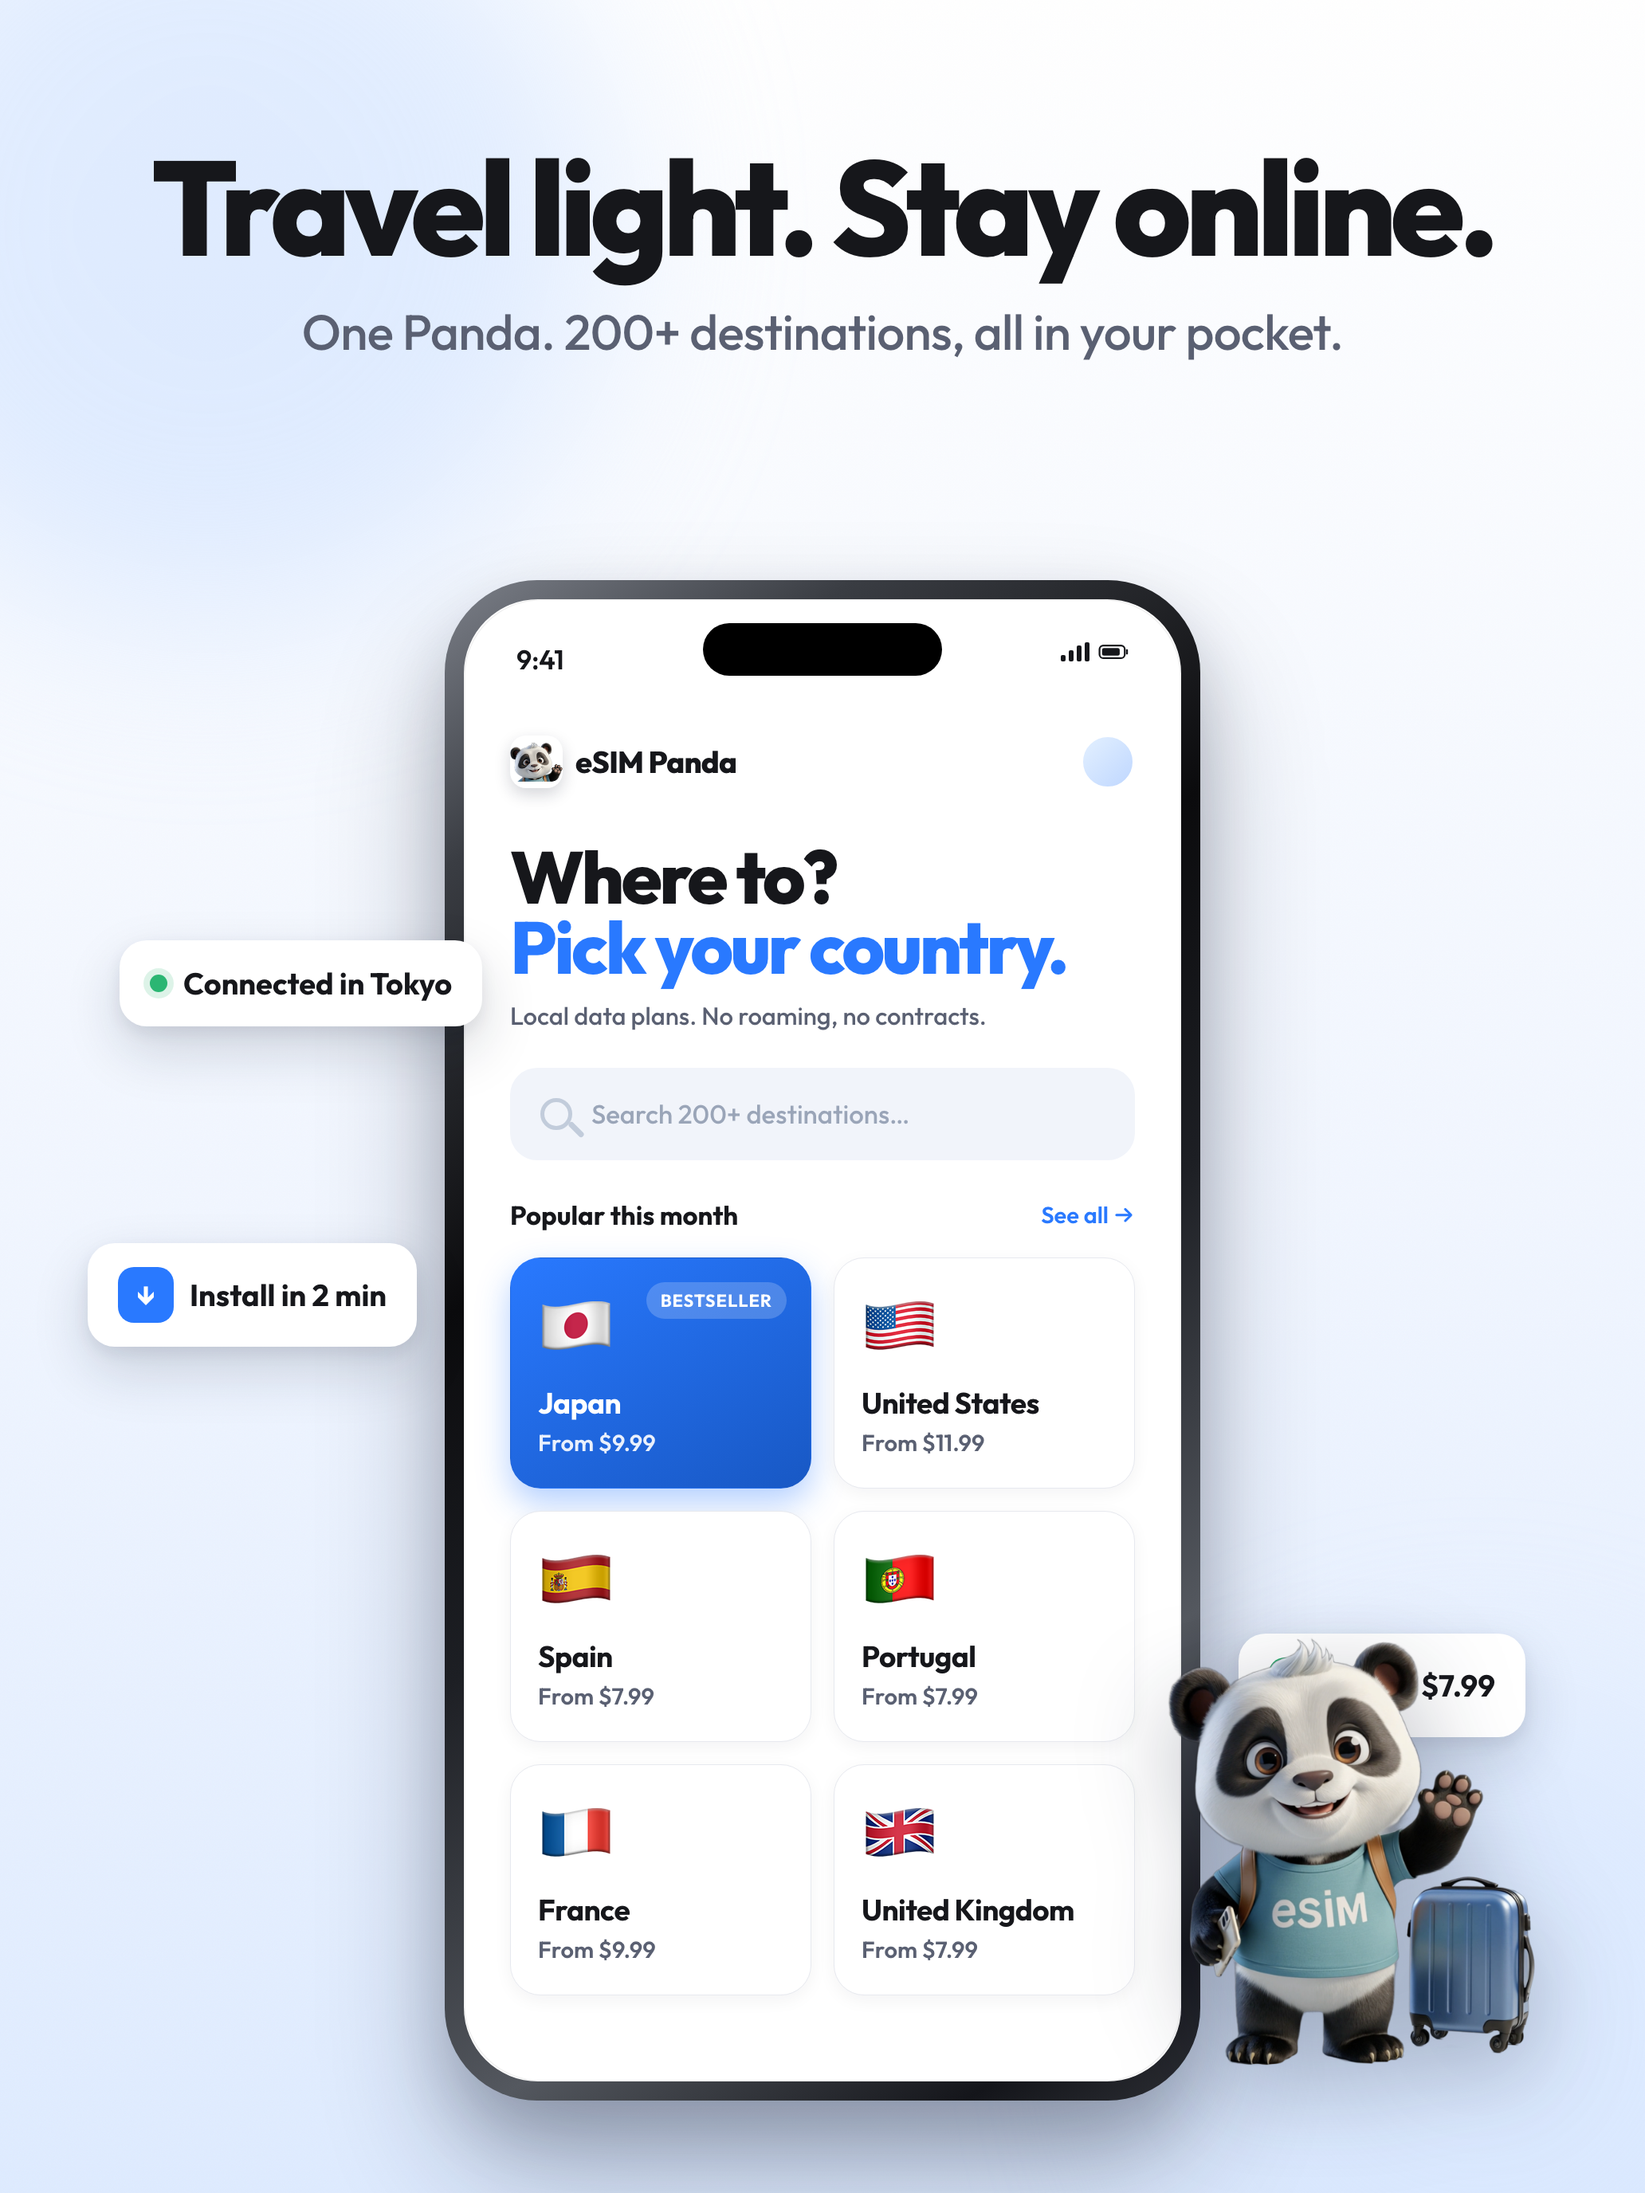
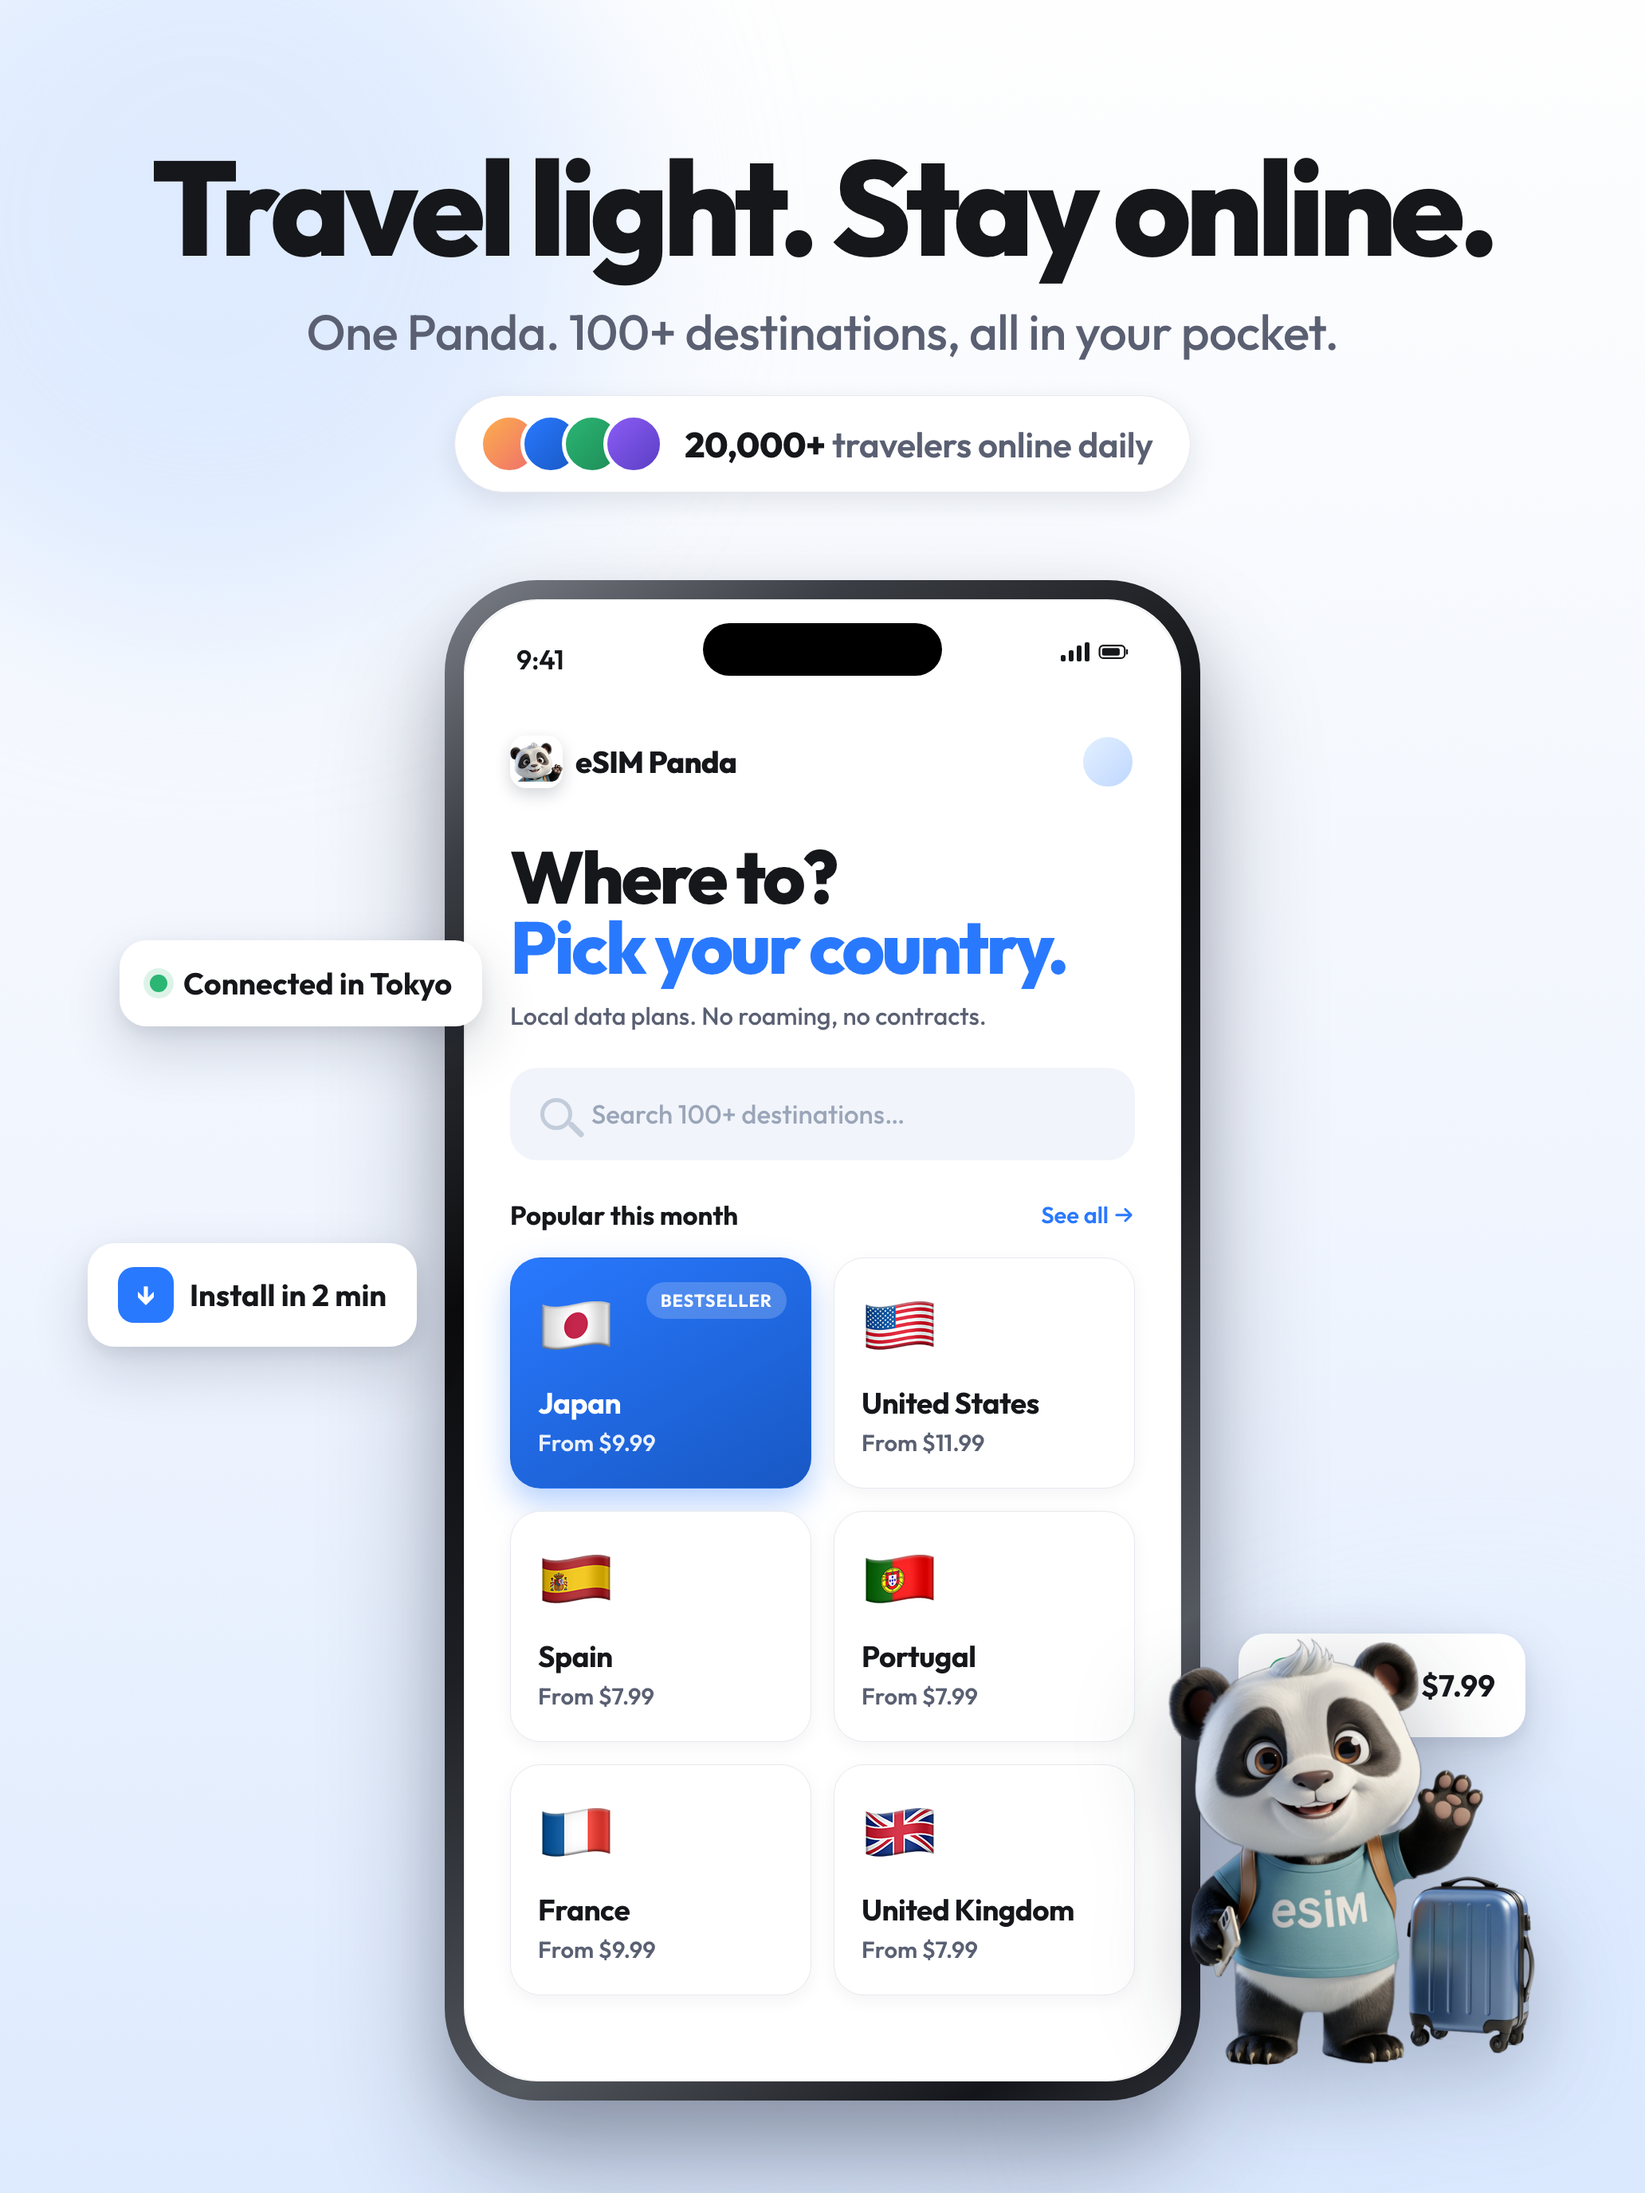
docs(app-store): correct destination count to 100+ and add social proof
- Fixed "200+ destinations" → "100+" across hero + lifestyle screenshots
  (iPhone 6.9/6.5 + iPad). The catalog has 218 destination pages but not
  all carry purchasable plans, so 100+ is the honest, defensible claim.
- Added a "20,000+ travelers online daily" social-proof pill below the
  subtitle on the hero (slot-1 + ipad-1), framed about travelers (not
  app users, since the app is new) to stay defensible under review.

Changed region(s): [[0.186, 0.125, 0.8062, 0.2188], [0.4031, 0.5, 0.5271, 0.5312]]

diff --git a/.planning/app-store/templates/ipad-1.html b/.planning/app-store/templates/ipad-1.html
@@ -15,6 +15,16 @@
   .caption { position: absolute; top: 180px; left: 160px; right: 160px; text-align: center; z-index: 4; }
   .caption h1 { font-size: 168px; line-height: 0.95; letter-spacing: -0.045em; font-weight: 800; color: var(--c-ink); }
   .caption p { margin-top: 38px; font-size: 62px; font-weight: 500; color: var(--c-ink-soft); letter-spacing: -0.012em; }
+  .socialproof { margin-top: 42px; display: inline-flex; align-items: center; gap: 26px; background: #fff; border: 1px solid var(--c-line); border-radius: 999px; padding: 22px 46px 22px 30px; box-shadow: 0 12px 34px rgba(20,28,48,0.10); }
+  .socialproof .avatars { display: flex; }
+  .socialproof .avatars i { width: 76px; height: 76px; border-radius: 50%; border: 5px solid #fff; margin-left: -24px; }
+  .socialproof .avatars i:first-child { margin-left: 0; }
+  .socialproof .avatars i:nth-child(1){ background: linear-gradient(135deg,#FCAE4D,#EF6F6C); }
+  .socialproof .avatars i:nth-child(2){ background: linear-gradient(135deg,#2979FF,#1858C4); }
+  .socialproof .avatars i:nth-child(3){ background: linear-gradient(135deg,#2BB673,#1E8C57); }
+  .socialproof .avatars i:nth-child(4){ background: linear-gradient(135deg,#8B5CF6,#5B3FC4); }
+  .socialproof .sp-text { font-size: 44px; font-weight: 600; color: var(--c-ink-soft); letter-spacing: -0.01em; }
+  .socialproof .sp-text b { color: var(--c-ink); font-weight: 800; }
 
   /* iPhone mockup centered on the iPad canvas */
   .phone {
@@ -68,7 +78,8 @@
 
   <div class="caption">
     <h1>Travel light. Stay online.</h1>
-    <p>One Panda. 200+ destinations, all in your pocket.</p>
+    <p>One Panda. 100+ destinations, all in your pocket.</p>
+    <div class="socialproof"><span class="avatars"><i></i><i></i><i></i><i></i></span><span class="sp-text"><b>20,000+</b> travelers online daily</span></div>
   </div>
 
   <div class="float pill-1"><span class="led"></span><span>Connected in Tokyo</span></div>
@@ -91,7 +102,7 @@
         </div>
         <h2>Where to?<br/><span class="accent">Pick your country.</span></h2>
         <div class="sub">Local data plans. No roaming, no contracts.</div>
-        <div class="search"><span class="icon"></span><span>Search 200+ destinations…</span></div>
+        <div class="search"><span class="icon"></span><span>Search 100+ destinations…</span></div>
         <div class="picker-label"><span>Popular this month</span><span class="more">See all →</span></div>
         <div class="grid">
           <div class="card featured"><span class="bestseller">Bestseller</span><span class="flag">🇯🇵</span><div class="name">Japan</div><div class="price">From $9.99</div></div>

diff --git a/.planning/app-store/templates/slot-1.html b/.planning/app-store/templates/slot-1.html
@@ -42,6 +42,17 @@
 
   .pill-1 { top: 1690px; left: 48px; }
   .pill-2 { top: 1980px; right: 48px; }
+
+  .socialproof { margin-top: 30px; display: inline-flex; align-items: center; gap: 20px; background: #fff; border: 1px solid var(--c-line); border-radius: 999px; padding: 16px 34px 16px 22px; box-shadow: 0 10px 28px rgba(20,28,48,0.10); }
+  .socialproof .avatars { display: flex; }
+  .socialproof .avatars i { width: 56px; height: 56px; border-radius: 50%; border: 4px solid #fff; margin-left: -18px; }
+  .socialproof .avatars i:first-child { margin-left: 0; }
+  .socialproof .avatars i:nth-child(1){ background: linear-gradient(135deg,#FCAE4D,#EF6F6C); }
+  .socialproof .avatars i:nth-child(2){ background: linear-gradient(135deg,#2979FF,#1858C4); }
+  .socialproof .avatars i:nth-child(3){ background: linear-gradient(135deg,#2BB673,#1E8C57); }
+  .socialproof .avatars i:nth-child(4){ background: linear-gradient(135deg,#8B5CF6,#5B3FC4); }
+  .socialproof .sp-text { font-size: 33px; font-weight: 600; color: var(--c-ink-soft); letter-spacing: -0.01em; }
+  .socialproof .sp-text b { color: var(--c-ink); font-weight: 800; }
 </style>
 </head>
 <body>
@@ -51,7 +62,8 @@
 
   <div class="caption">
     <h1>Travel light.<br/>Stay online.</h1>
-    <p>One Panda. 200+ destinations.</p>
+    <p>One Panda. 100+ destinations.</p>
+    <div class="socialproof"><span class="avatars"><i></i><i></i><i></i><i></i></span><span class="sp-text"><b>20,000+</b> travelers online daily</span></div>
   </div>
 
   <div class="float pill-1"><span class="led"></span><span>Connected in Tokyo</span></div>
@@ -77,7 +89,7 @@
         <h2>Where to?<br/><span class="accent">Pick your country.</span></h2>
         <div class="sub">Local data plans. No roaming, no contracts.</div>
 
-        <div class="search"><span class="icon"></span><span>Search 200+ destinations…</span></div>
+        <div class="search"><span class="icon"></span><span>Search 100+ destinations…</span></div>
 
         <div class="picker-label">
           <span>Popular this month</span>

diff --git a/.planning/app-store/templates/lifestyle-2.html b/.planning/app-store/templates/lifestyle-2.html
@@ -84,7 +84,7 @@
   <div class="l-caption">
     <div class="eyebrow">Wherever you roam</div>
     <h1>Online, even<br/>up here.</h1>
-    <p>Fast 5G in 200+ destinations.</p>
+    <p>Fast 5G in 100+ destinations.</p>
   </div>
 
   <div class="float-status"><span class="bars"><i></i><i></i><i></i><i></i></span><span>Connected · 5G</span></div>

diff --git a/.planning/app-store/templates/ipad-9.html b/.planning/app-store/templates/ipad-9.html
@@ -65,7 +65,7 @@
   <div class="l-caption">
     <div class="eyebrow">Wherever you roam</div>
     <h1>Online, even up here.</h1>
-    <p>Fast 5G in 200+ destinations.</p>
+    <p>Fast 5G in 100+ destinations.</p>
   </div>
 
   <div class="float-status"><span class="bars"><i></i><i></i><i></i><i></i></span><span>Connected · 5G</span></div>
